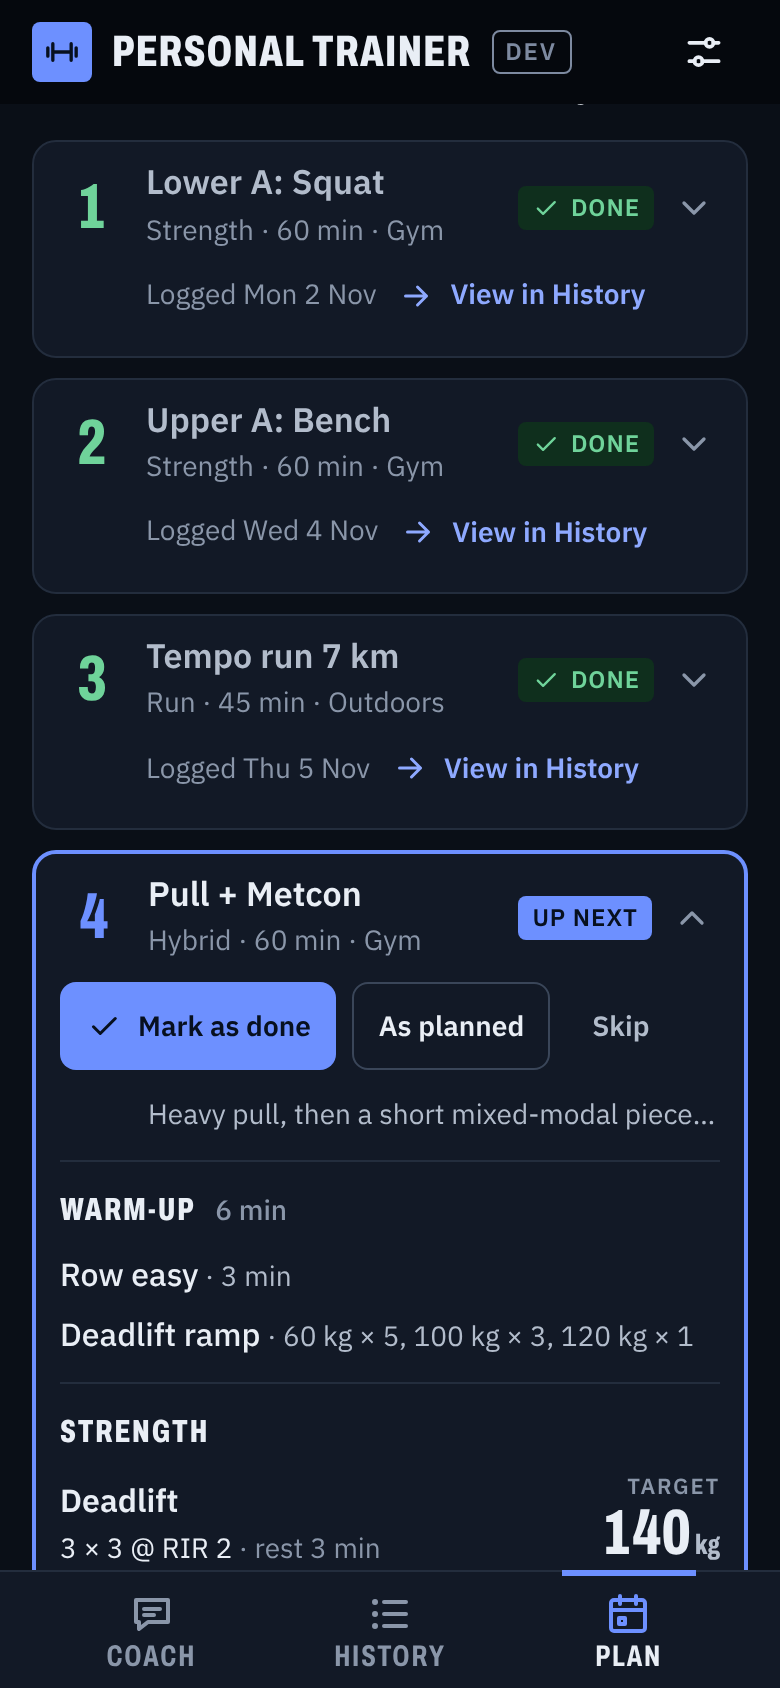
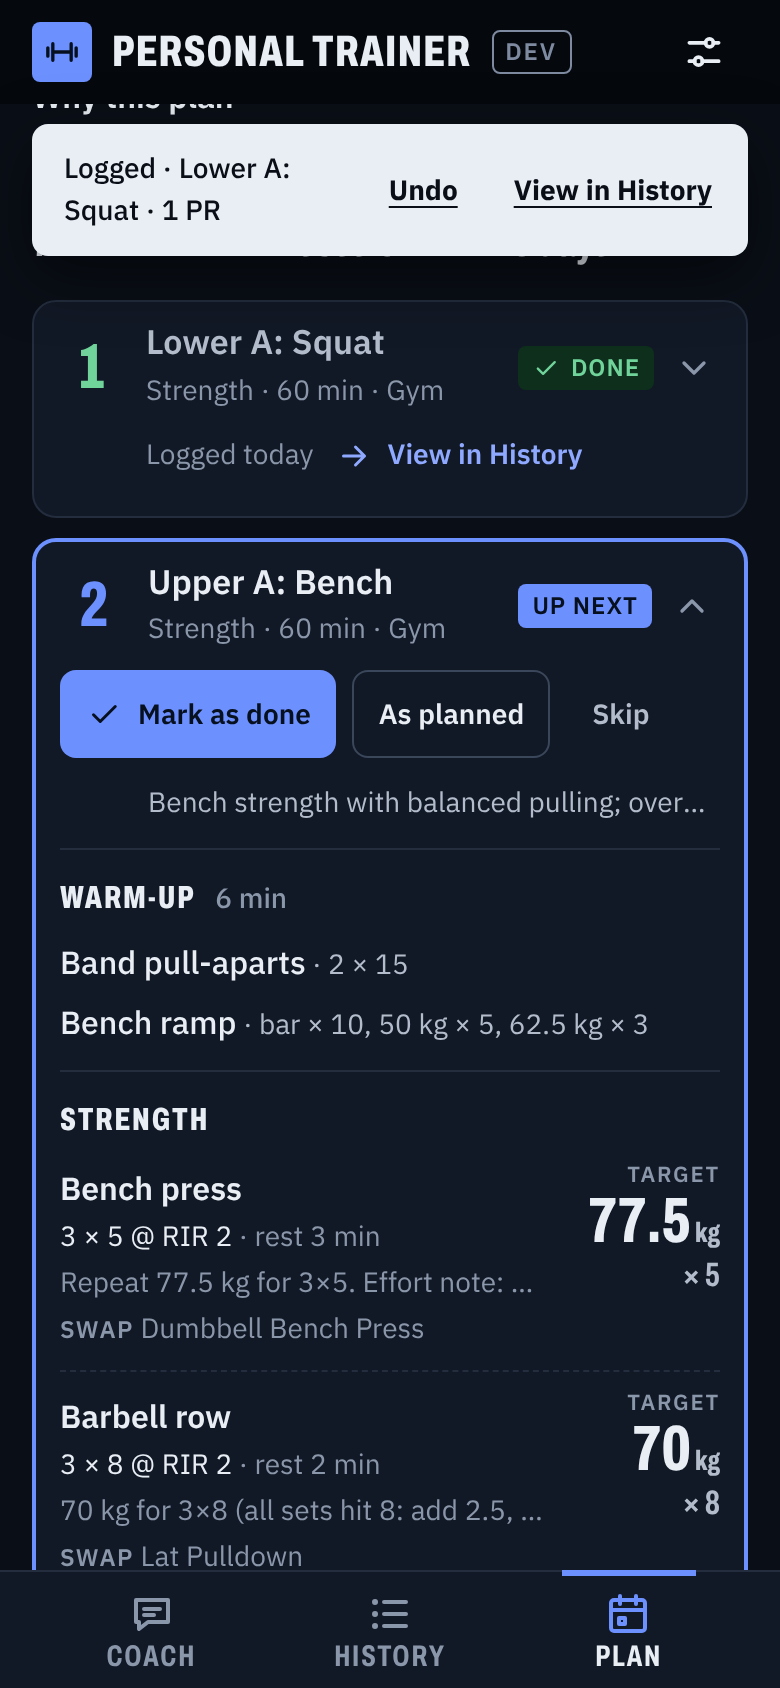
Plan: mark as done / as planned / skip with quick-log; concise plan text (TOO_VERBOSE); publish v2
Claude-Session: https://claude.ai/code/session_01TaYC6687ZMFfTzAoTBw4Wj

diff --git a/app/src/ui/styles.css b/app/src/ui/styles.css
@@ -1444,3 +1444,62 @@ details > summary::-webkit-details-marker { display: none; }
   .pulse { opacity: 1; transform: none; }
   .gen-bar span { width: 100%; transform: none; opacity: 0.6; }
 }
+
+/* ============================================================================================
+   plan quick-log: Plan tab Mark as done / As planned / Skip, logged-session link, one-line clamps,
+   quick-log sheet (owner of plan.js / quicklog.js). */
+
+/* Grid tracks must be able to shrink below their content so one-line clamps ellipsize instead of overflowing. */
+.workout-body,
+.workout-body .block,
+.lift-main { grid-template-columns: minmax(0, 1fr); }
+
+/* ---- one-line clamp, tap to expand ------------------------------------------------------- */
+.pl-line {
+  min-width: 0;
+  overflow: hidden;
+  white-space: nowrap;
+  text-overflow: ellipsis;
+  cursor: pointer;
+  border-radius: var(--r-sm);
+}
+.pl-line.is-open { white-space: normal; overflow: visible; overflow-wrap: anywhere; }
+.pl-line:hover { color: var(--ink); }
+.lift-cue { color: var(--ink-2); }
+.w-intent.pl-line { padding-right: 0; }
+
+/* ---- card actions -------------------------------------------------------------------------- */
+.w-actions {
+  display: flex;
+  flex-wrap: wrap;
+  align-items: center;
+  gap: 8px;
+  padding: 0 12px 12px;
+}
+.workout-body .w-actions { padding: 12px 0 0; border-top: 1px solid var(--line); }
+.w-actions-logged { margin-top: -10px; padding: 0 12px 8px 56px; gap: 4px 10px; }
+.w-actions-logged .btn-quiet { margin-left: -10px; }
+.w-logged { font-size: var(--fs-sm); color: var(--ink-3); }
+.workout-card.is-skipped .w-title { color: var(--ink-2); }
+
+/* ---- skip panel ---------------------------------------------------------------------------- */
+.w-skip {
+  display: grid;
+  gap: 10px;
+  margin: 0 12px 12px;
+  padding: 12px;
+  border-radius: var(--r-md);
+  background: var(--surface-2);
+}
+.pl-reasons { display: flex; flex-wrap: wrap; gap: 8px; }
+.pl-reasons .chip { min-height: 44px; }
+.chip[aria-pressed="true"] { background: var(--ink); color: var(--bg); border-color: var(--ink); }
+
+/* ---- quick-log sheet ----------------------------------------------------------------------- */
+.pl-ql-head { display: grid; gap: 4px; }
+.pl-ql-target { color: var(--accent-text); font-weight: 600; }
+
+/* ---- multi-action toast -------------------------------------------------------------------- */
+.pl-toast { flex-wrap: wrap; row-gap: 0; }
+.pl-toast .toast-action + .toast-action { margin-left: -8px; }
+/* end plan quick-log */

diff --git a/app/src/ui/plan.js b/app/src/ui/plan.js
@@ -1,7 +1,7 @@
 // Owner: Agent D. Plan tab: agreed plan in rotation order (Done / Up next / Later) with targets from
 // core.nextTarget, Mark as done / Done as planned / Skip per workout (logged sessions link to History),
 // the draft with validation chips and Approve / Ask for changes / Regenerate, and plan generation with an
-// elapsed timer and Stop. Styles for the logging actions and one-line clamps: plan-log.css.
+// elapsed timer and Stop. Styles: the "plan quick-log" section of styles.css.
 
 import {
   h, icon, button, append, replaceChildren, pill, typePill, emptyState, errorLine, inlineConfirm, toast,

diff --git a/app/CONTRACT.md b/app/CONTRACT.md
@@ -170,7 +170,7 @@ All writes go through `store.js`. Path parity: `data/users/<uid>` is a collectio
 { id, status: "draft" | "agreed" | "archived", weekStart: "YYYY-MM-DD" /* a Sunday */,
   createdAt, approvedAt: null,
   focus: "one line",
-  rationale: "2-5 sentences, referencing recent history",
+  rationale: "≤ 2 short sentences (≤ 220 chars), referencing recent history",
   workouts: [ Workout ],            // rotation order
   weeklyTargets: { runKm: null, conditioningSessions: null, strengthSetsPerMuscle: {} },
   notes: [],
